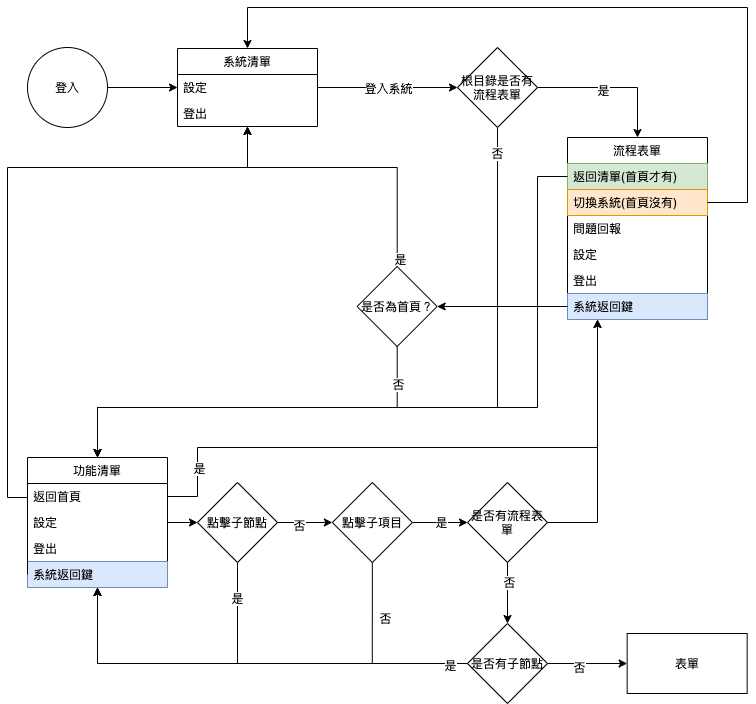
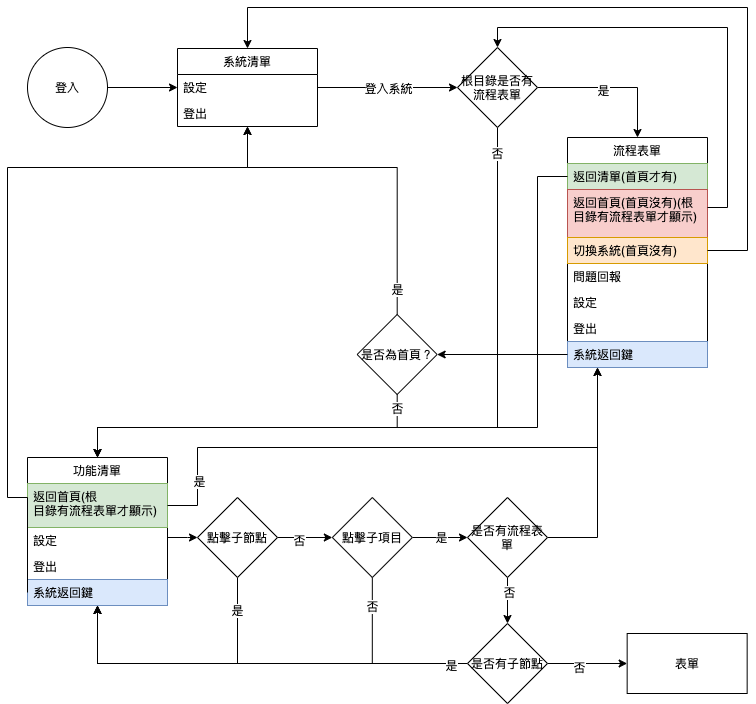
修改流程表單

diff --git a/8.10.0/UPDATE/ITEM_11/MAE/README.md b/8.10.0/UPDATE/ITEM_11/MAE/README.md
@@ -7,17 +7,18 @@
 #### <div id="version">版本記錄</div>
   |日期|版本|備註|
   |---|---|---|
-  |2021/6/16|v1|初始化|
+  |2021/6/24|v1|初始化|
 
 #### <div id="trac">TRAC</div>
   * [#8548](http://trac.uneec.com/trac/neco/ticket/8548)
 
 #### <div id="specification">規格說明</div>
   * 需求展開
-    * 流程
+    * 流程表單
       * 首頁可切換至功能清單
-      * 清單可返回首頁
-    * 功能清單節點
+      * 功能清單可返回首頁(根目錄有流程表單時)
+      * 流程表單可返回至首頁(根目錄有流程表單時)及切換系統
+    * 功能清單
       * 更換節點開關ICON
       * 修改節點點擊方式
         * 展開/關閉
@@ -25,28 +26,38 @@
         * 開啟流程表單
           * 點擊文字
 
-#### <div id="workflow">作業流程</div>
+#### <div id="photo">畫面</div>
 
   * 首頁側拉功能項
 
-  ![system function](./image/workflow_system_function.png)
+  ![system function](./image/drawer_right_side_main_form.png)
 
   * 功能清單側拉功能項
 
-  ![system function](./image/workflow_system_function.png)
+  ![system function](./image/drawer_right_side_function.png)
 
   * 流程表單側拉功能項
 
-  ![system function](./image/workflow_system_function.png)
+  ![system function](./image/drawer_right_side_flow_form.png)
+
+  * 表單側拉功能項
+
+  ![system function](./image/drawer_right_side_form.png)
 
   * 功能清單節點展開
 
-  ![system function](./image/workflow_function_open.png)
+  ![system function](./image/function_open.png)
 
   * 功能清單節點關閉
   
-  ![system function](./image/workflow_system_function.png)
+  ![system function](./image/function_close.png)
 
-#### <div id="attachment">附件</div>
-  * [注意事項](Warning.md)
+#### <div id="workflow">作業流程</div>
+
+  * 流程表單
+
+  ![system function](./image/workflow_flow_form.png)
+
+<!-- #### <div id="attachment">附件</div>
+  * [注意事項](Warning.md)-->
 

diff --git a/8.10.0/UPDATE/ITEM_14/MAE/README.md b/8.10.0/UPDATE/ITEM_14/MAE/README.md
@@ -17,11 +17,22 @@
     * 調整為右側拉選單
     * 收納系統功能項進側拉選單(返回首頁/切換系統/問題回報等)
     * 功能清單新增右側拉選單
-      * 右側拉項目不顯示返回首頁及問題回報
+      * 右側拉項目不顯示問題回報
     * 表單新增右側拉選單
-      * 右側拉項目不顯示返回首頁(當表單為根目錄流程表單時)
+      * 顯示項目
+        * 返回首頁
+          * 流程表單(不為根目錄流程表單)
+          * 一般表單
+        * 返回清單
+          * 根目錄流程表單
+          * 一般表單
+        * 切換系統
+          * 流程表單(不為根目錄流程表單)
+          * 一般表單
     * 打樣新增右側拉選單
-      * 右側拉項目不顯示返回首頁/切換系統/登出
+      * 顯示項目
+        * 問題回報
+        * 主要裝置設定
 
 #### <div id="photo">畫面</div>
 
@@ -51,6 +62,6 @@
   
   ![Drawer right side](./image/workflow_drawer_right_side.png)
 
-#### <div id="attachment">附件</div>
-  * [注意事項](Warning.md)
+<!-- #### <div id="attachment">附件</div>
+  * [注意事項](Warning.md) -->
 

diff --git a/8.10.0/UPDATE/ITEM_11/MAE/_sidebar.md b/8.10.0/UPDATE/ITEM_11/MAE/_sidebar.md
@@ -5,7 +5,7 @@
 * [TRAC](README.md#trac)
 * [需求展開](README.md#specification)
   * [系統功能鍵](README.md#specification)
-    * [開啟](README.md#specification)
-    * [退出](README.md#specification)
-* [注意事項](Warning.md)
+    * [流程表單](README.md#specification)
+    * [功能清單](README.md#specification)
+<!-- * [注意事項](Warning.md) -->
 * [history](history.md)

diff --git a/8.10.0/UPDATE/ITEM_14/MAE/_sidebar.md b/8.10.0/UPDATE/ITEM_14/MAE/_sidebar.md
@@ -5,5 +5,5 @@
 * [TRAC](README.md#trac)
 * [需求展開](README.md#specification)
   * [系統選單開啟位置調整](README.md#specification)
-* [注意事項](Warning.md)
+<!-- * [注意事項](Warning.md) -->
 * [history](history.md)

diff --git a/8.10.0/UPDATE/ITEM_14/MAE/Warning.md b/8.10.0/UPDATE/ITEM_14/MAE/Warning.md
@@ -13,4 +13,4 @@
   * 系統側拉
     * 打樣
       * 設定
-        * 伺服器設定對打樣無作用
+        * 打樣只顯示問題回報及主要裝置設定
